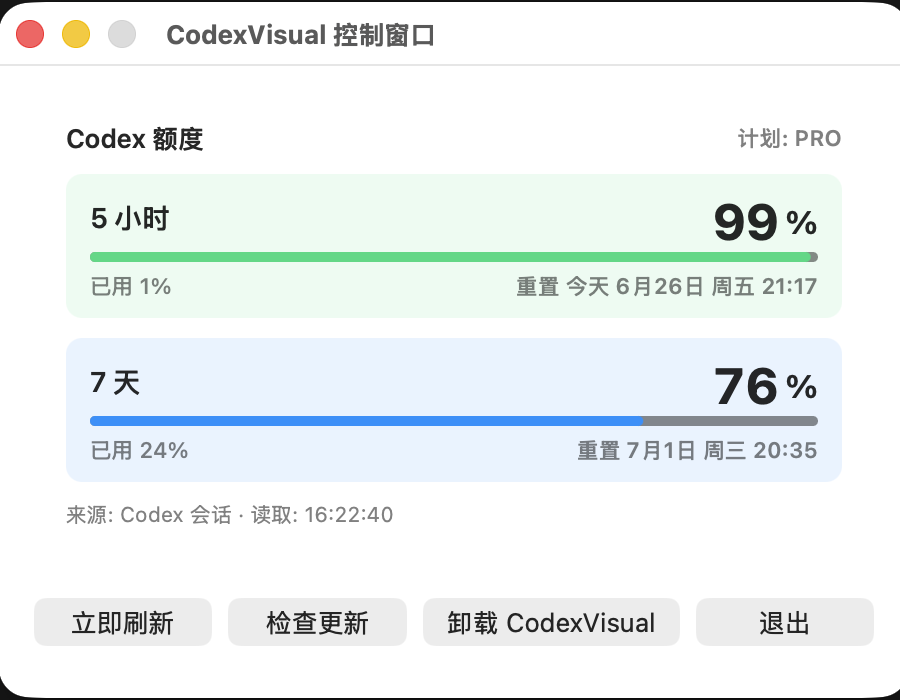
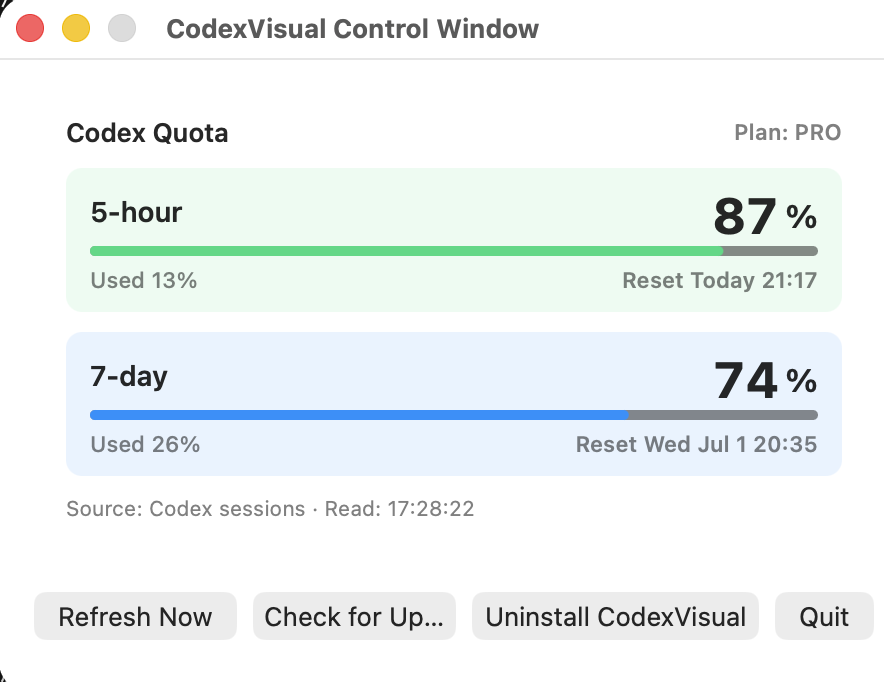
Refresh release docs and quota validation

diff --git a/Sources/CodexVisual/main.swift b/Sources/CodexVisual/main.swift
@@ -817,7 +817,7 @@ final class QuotaReader {
 
     private func isCurrentRateLimitEvent(_ event: RateLimitEvent) -> Bool {
         let now = Date()
-        return event.rateLimits.primary.resetDate > now || event.rateLimits.secondary.resetDate > now
+        return event.rateLimits.primary.resetDate > now && event.rateLimits.secondary.resetDate > now
     }
 
     private func runSQLite(databasePath: String, query: String) throws -> String {

diff --git a/README.md b/README.md
@@ -1,7 +1,7 @@
 # CodexVisual
 
 <p align="center">
-  <img src="assets/menubar.png" alt="CodexVisual menu bar screenshot" width="520">
+  <img src="assets/menubar.png" alt="CodexVisual menu bar screenshot" width="420">
 </p>
 
 ## English